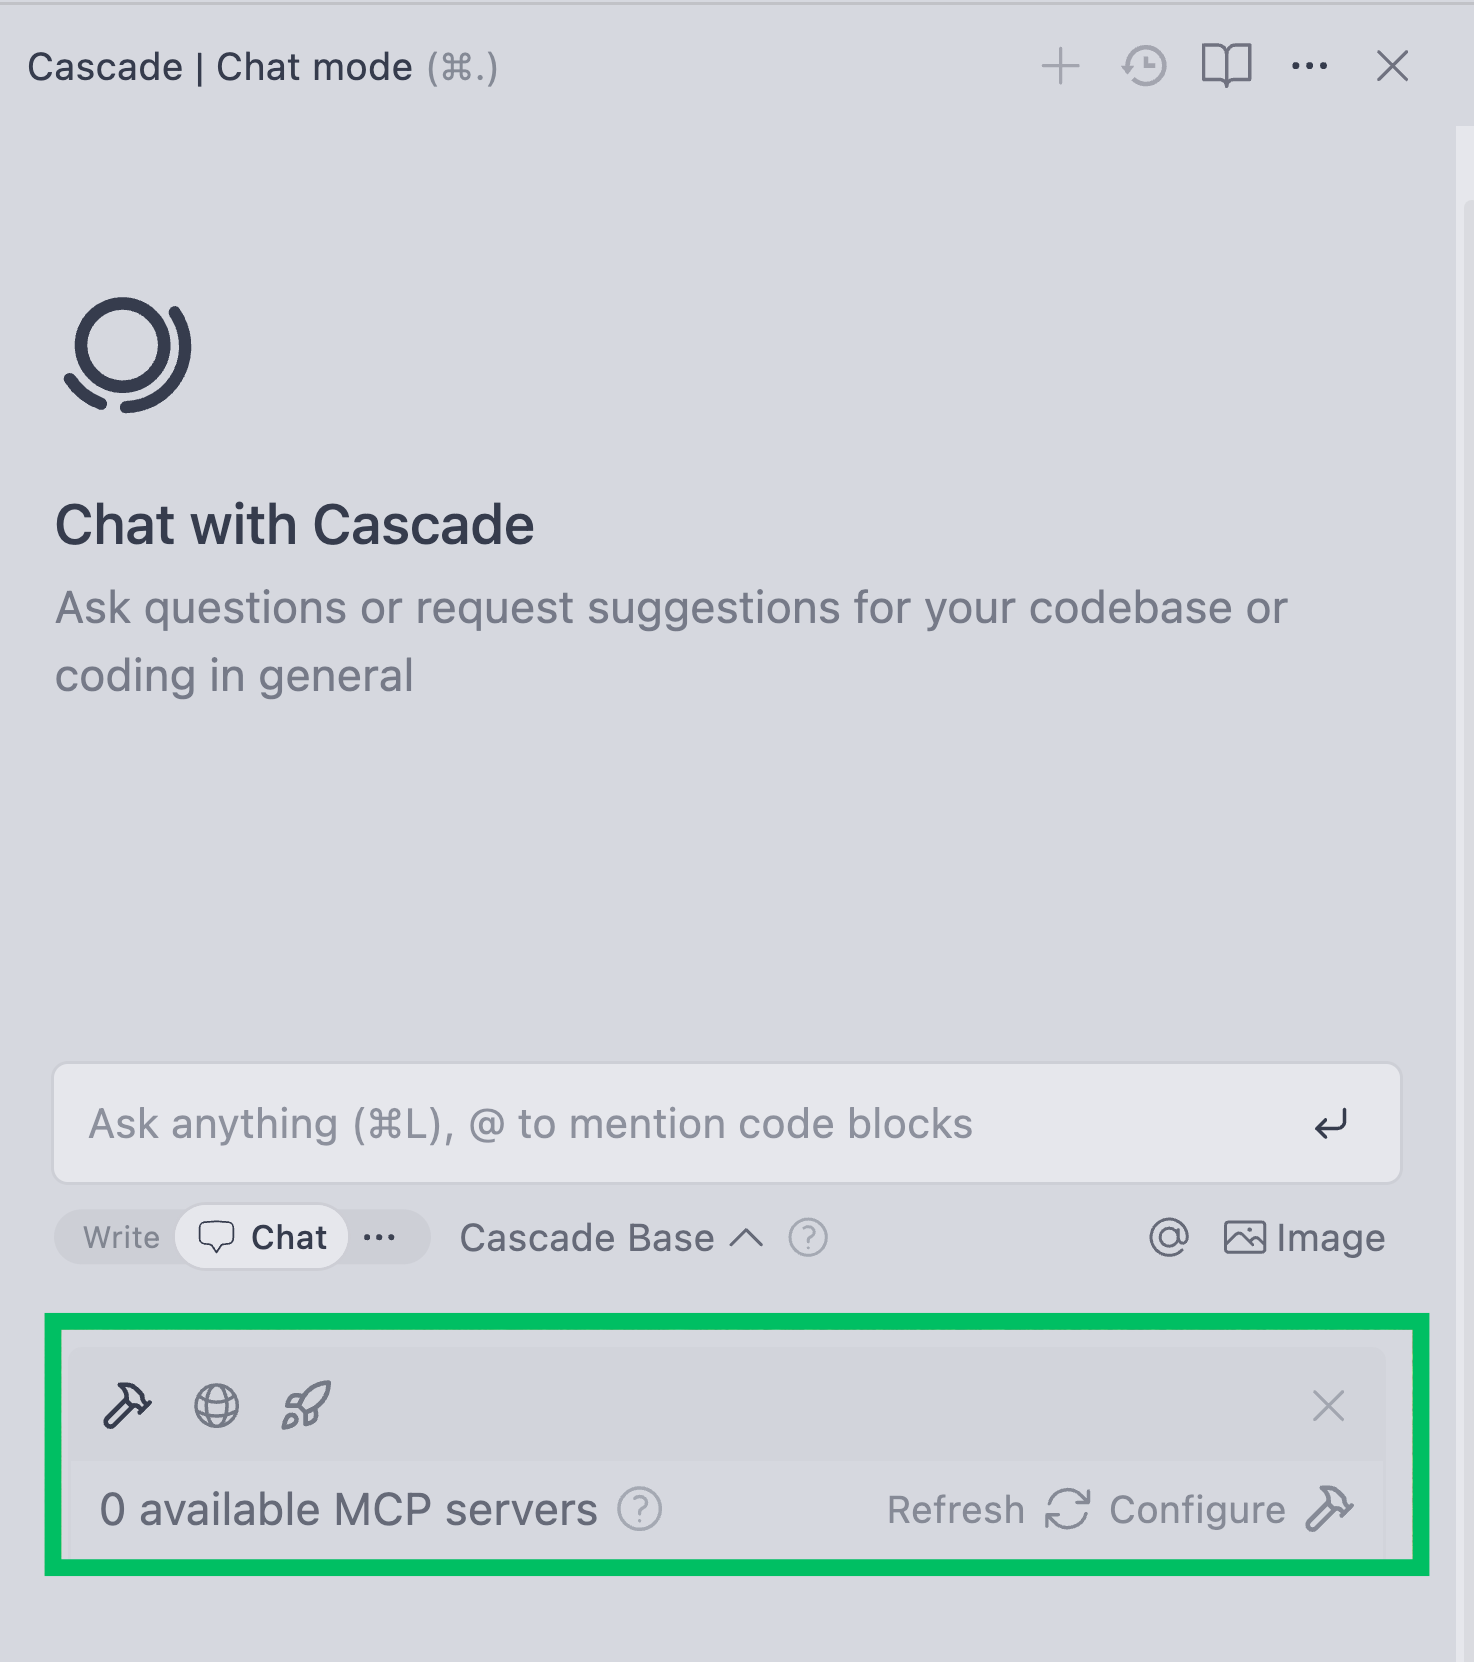
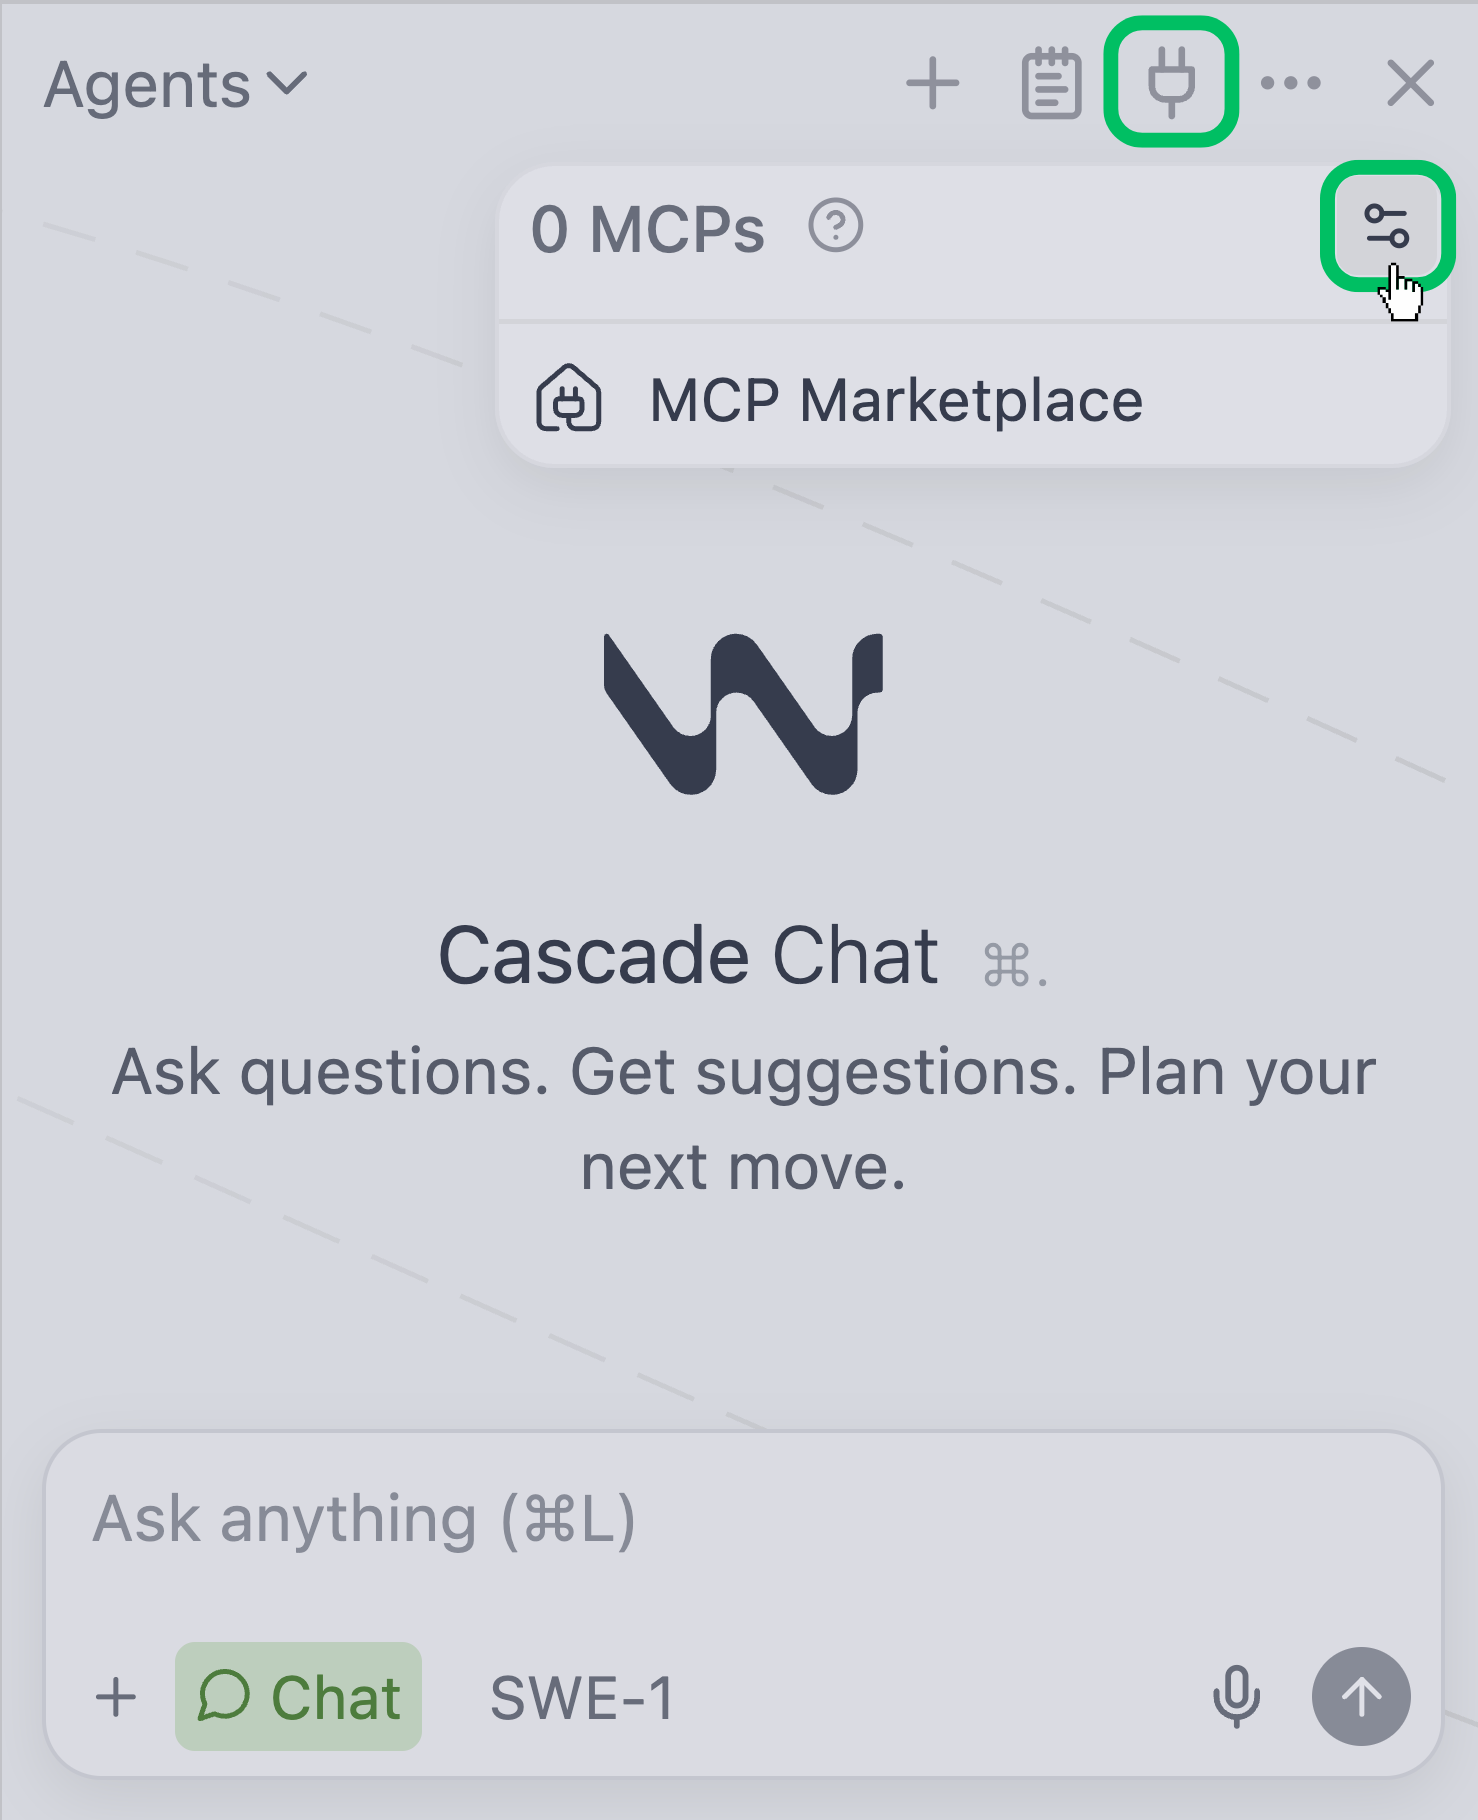
docs: update windsurf mcp

diff --git a/content/guides/windsurf-mcp-neon.md b/content/guides/windsurf-mcp-neon.md
@@ -67,18 +67,16 @@ By default, the Remote MCP Server connects to your personal Neon account. To con
 
 1. Open Windsurf.
 2. Open Cascade by using `⌘L` on MacOS or `Ctrl+L` on Windows/Linux.
-3. Click on the hammer icon (🔨), then click the **"Configure"** button.
+3. Click on the plug icon (🔌), then click the **"Configure"** button.
    ![Windsurf Configure MCP](/docs/guides/windsurf-configure-mcp.png)
-4. This will open up the "Manage MCPs" file in Windsurf.
-5. Click on "View raw config" to open the Windsurf's MCP configuration file.
-6. Add the "Neon" server entry within the `mcpServers` object:
+4. This will open up the MCP configuration file in Windsurf.
+5. Add the "Neon" server entry within the `mcpServers` object:
 
    ```json
    {
      "mcpServers": {
        "Neon": {
-         "command": "npx",
-         "args": ["-y", "mcp-remote@latest", "https://mcp.neon.tech/mcp"]
+         "url": "https://mcp.neon.tech/mcp"
        }
      }
    }
@@ -86,15 +84,14 @@ By default, the Remote MCP Server connects to your personal Neon account. To con
 
    If you have other MCP servers configured, you can copy just the Neon part.
 
-7. **Save** the MCP configuration file.
-8. Click **"Refresh"** (🔄) in the MCP toolbar in Windsurf Cascade.
-9. An OAuth window will open in your browser. Follow the prompts to authorize Windsurf to access your Neon account.
+6. **Save** the MCP configuration file.
+7. An OAuth window will open in your browser. Follow the prompts to authorize Windsurf to access your Neon account.
    ![Neon OAuth window](/docs/guides/neon-oauth-window.png)
-10. You can verify that the connection is successful by checking the available MCP servers in Cascade. The toolbar should indicate that you have MCP servers available, and you should see "1 available MCP server" (or more if you configured additional servers).
+8. You can verify that the connection is successful by checking the available MCP servers. The toolbar should indicate that you have Neon MCP server available.
 
-    ![Windsurf MCP Toolbar with Server Available](/docs/guides/windsurf-mcp-server-available.png)
+   ![Windsurf MCP Toolbar](/docs/guides/windsurf-mcp-server-available.png)
 
-11. Windsurf is now connected to the Neon MCP server.
+9. Windsurf is now connected to the Neon MCP server.
 
 <Admonition type="note">
 The remote hosted MCP server is in preview due to the [new OAuth MCP specification](https://spec.modelcontextprotocol.io/specification/2025-03-26/basic/authorization/), expect potential changes as we continue to refine the OAuth integration.
@@ -119,7 +116,7 @@ key for authentication.
 2. Open Cascade by using `⌘L` on MacOS or `Ctrl+L` on Windows/Linux.
 3. Click on the hammer icon (🔨), then click the **"Configure"** button.
    ![Windsurf Configure MCP](/docs/guides/windsurf-configure-mcp.png)
-4. This will open up the "Manage MCPs" file in Windsurf.
+4. This will open up the MCP configuration file in Windsurf.
 5. Click on "View raw config" to open the Windsurf's MCP configuration file.
 6. Add the "Neon" server entry within the `mcpServers` object:
 
@@ -172,8 +169,7 @@ key for authentication.
    If you have other MCP servers configured, you can copy just the `Neon` part.
 
 7. **Save** the MCP configuration file.
-8. Click **"Refresh"** (🔄) in the MCP toolbar in Windsurf Cascade to refresh the configuration.
-9. You can verify that the connection is successful by checking the available MCP servers in Cascade. The toolbar should indicate that you have MCP servers available, and you should see "1 available MCP server" (or more if you configured additional servers).
+8. You can verify that the connection is successful by checking the available MCP servers. The toolbar should indicate that you have Neon MCP server available.
    ![Windsurf MCP Toolbar with Server Available](/docs/guides/windsurf-mcp-server-available.png)
 
    You've now configured Neon MCP Server in Windsurf and can manage your Neon Postgres databases using AI.
@@ -286,7 +282,8 @@ Windsurf with Neon MCP Server lets you use natural language to interact with you
 ## Resources
 
 - [MCP Protocol](https://modelcontextprotocol.org)
-- [Codeium Windsurf Documentation](https://docs.codeium.com/windsurf/getting-started)
+- [Windsurf Documentation](https://docs.windsurf.com/windsurf/getting-started)
+- [Windsurf MCP](https://docs.windsurf.com/windsurf/cascade/mcp)
 - [Neon Docs](/docs)
 - [Neon API Keys](/docs/manage/api-keys#creating-api-keys)
 - [Neon MCP server GitHub](https://github.com/neondatabase/mcp-server-neon)
